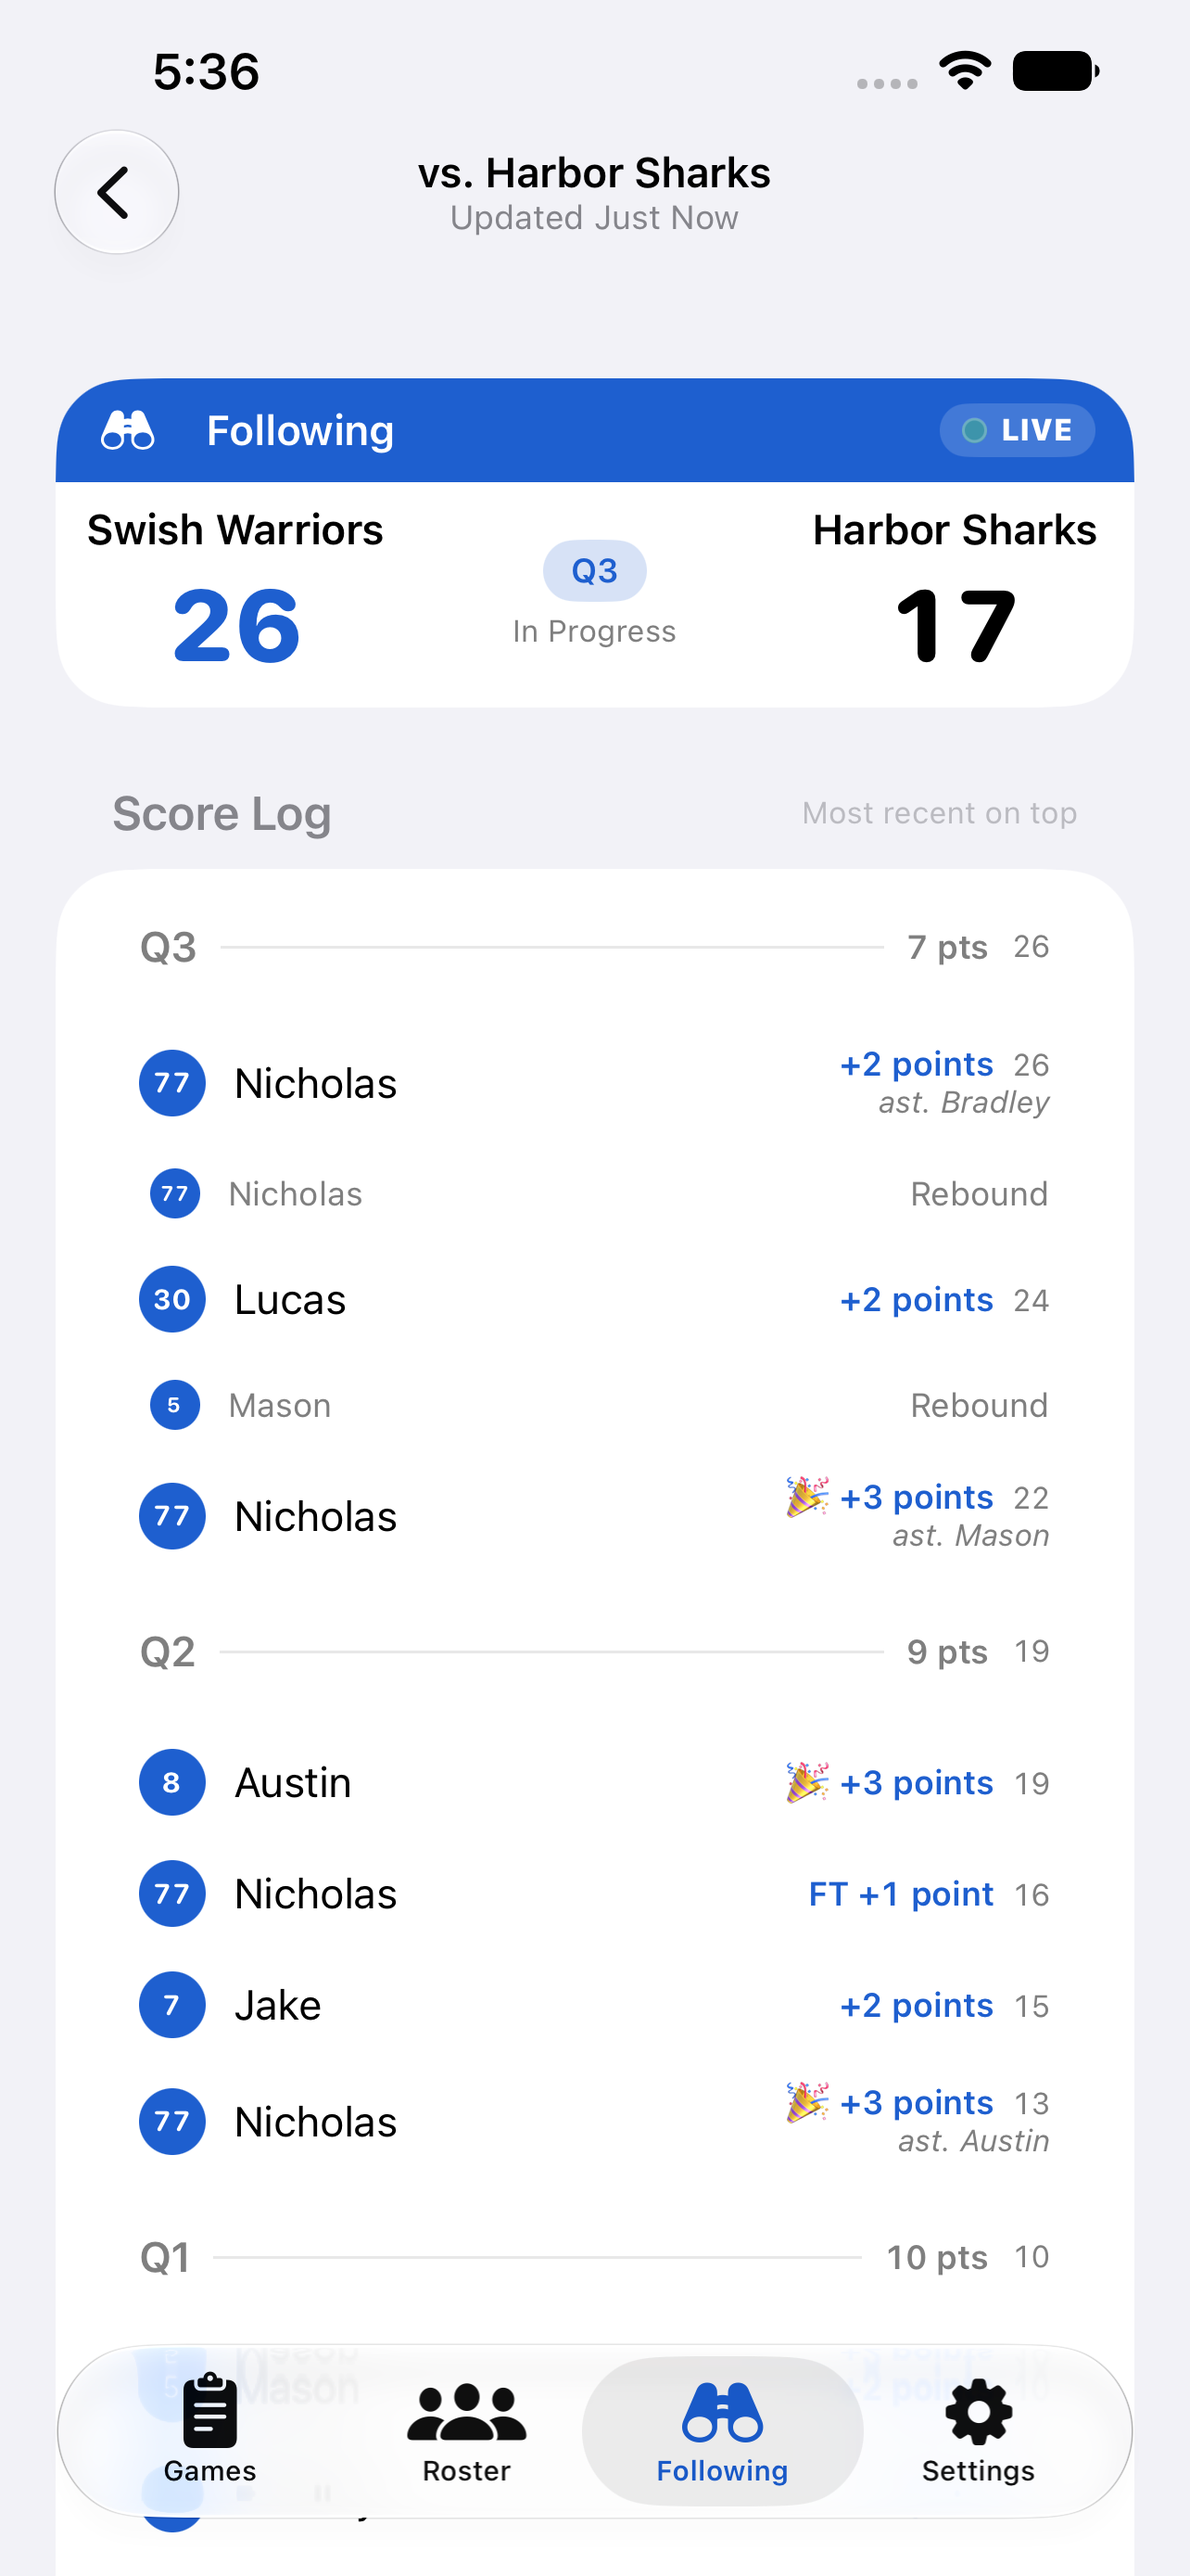
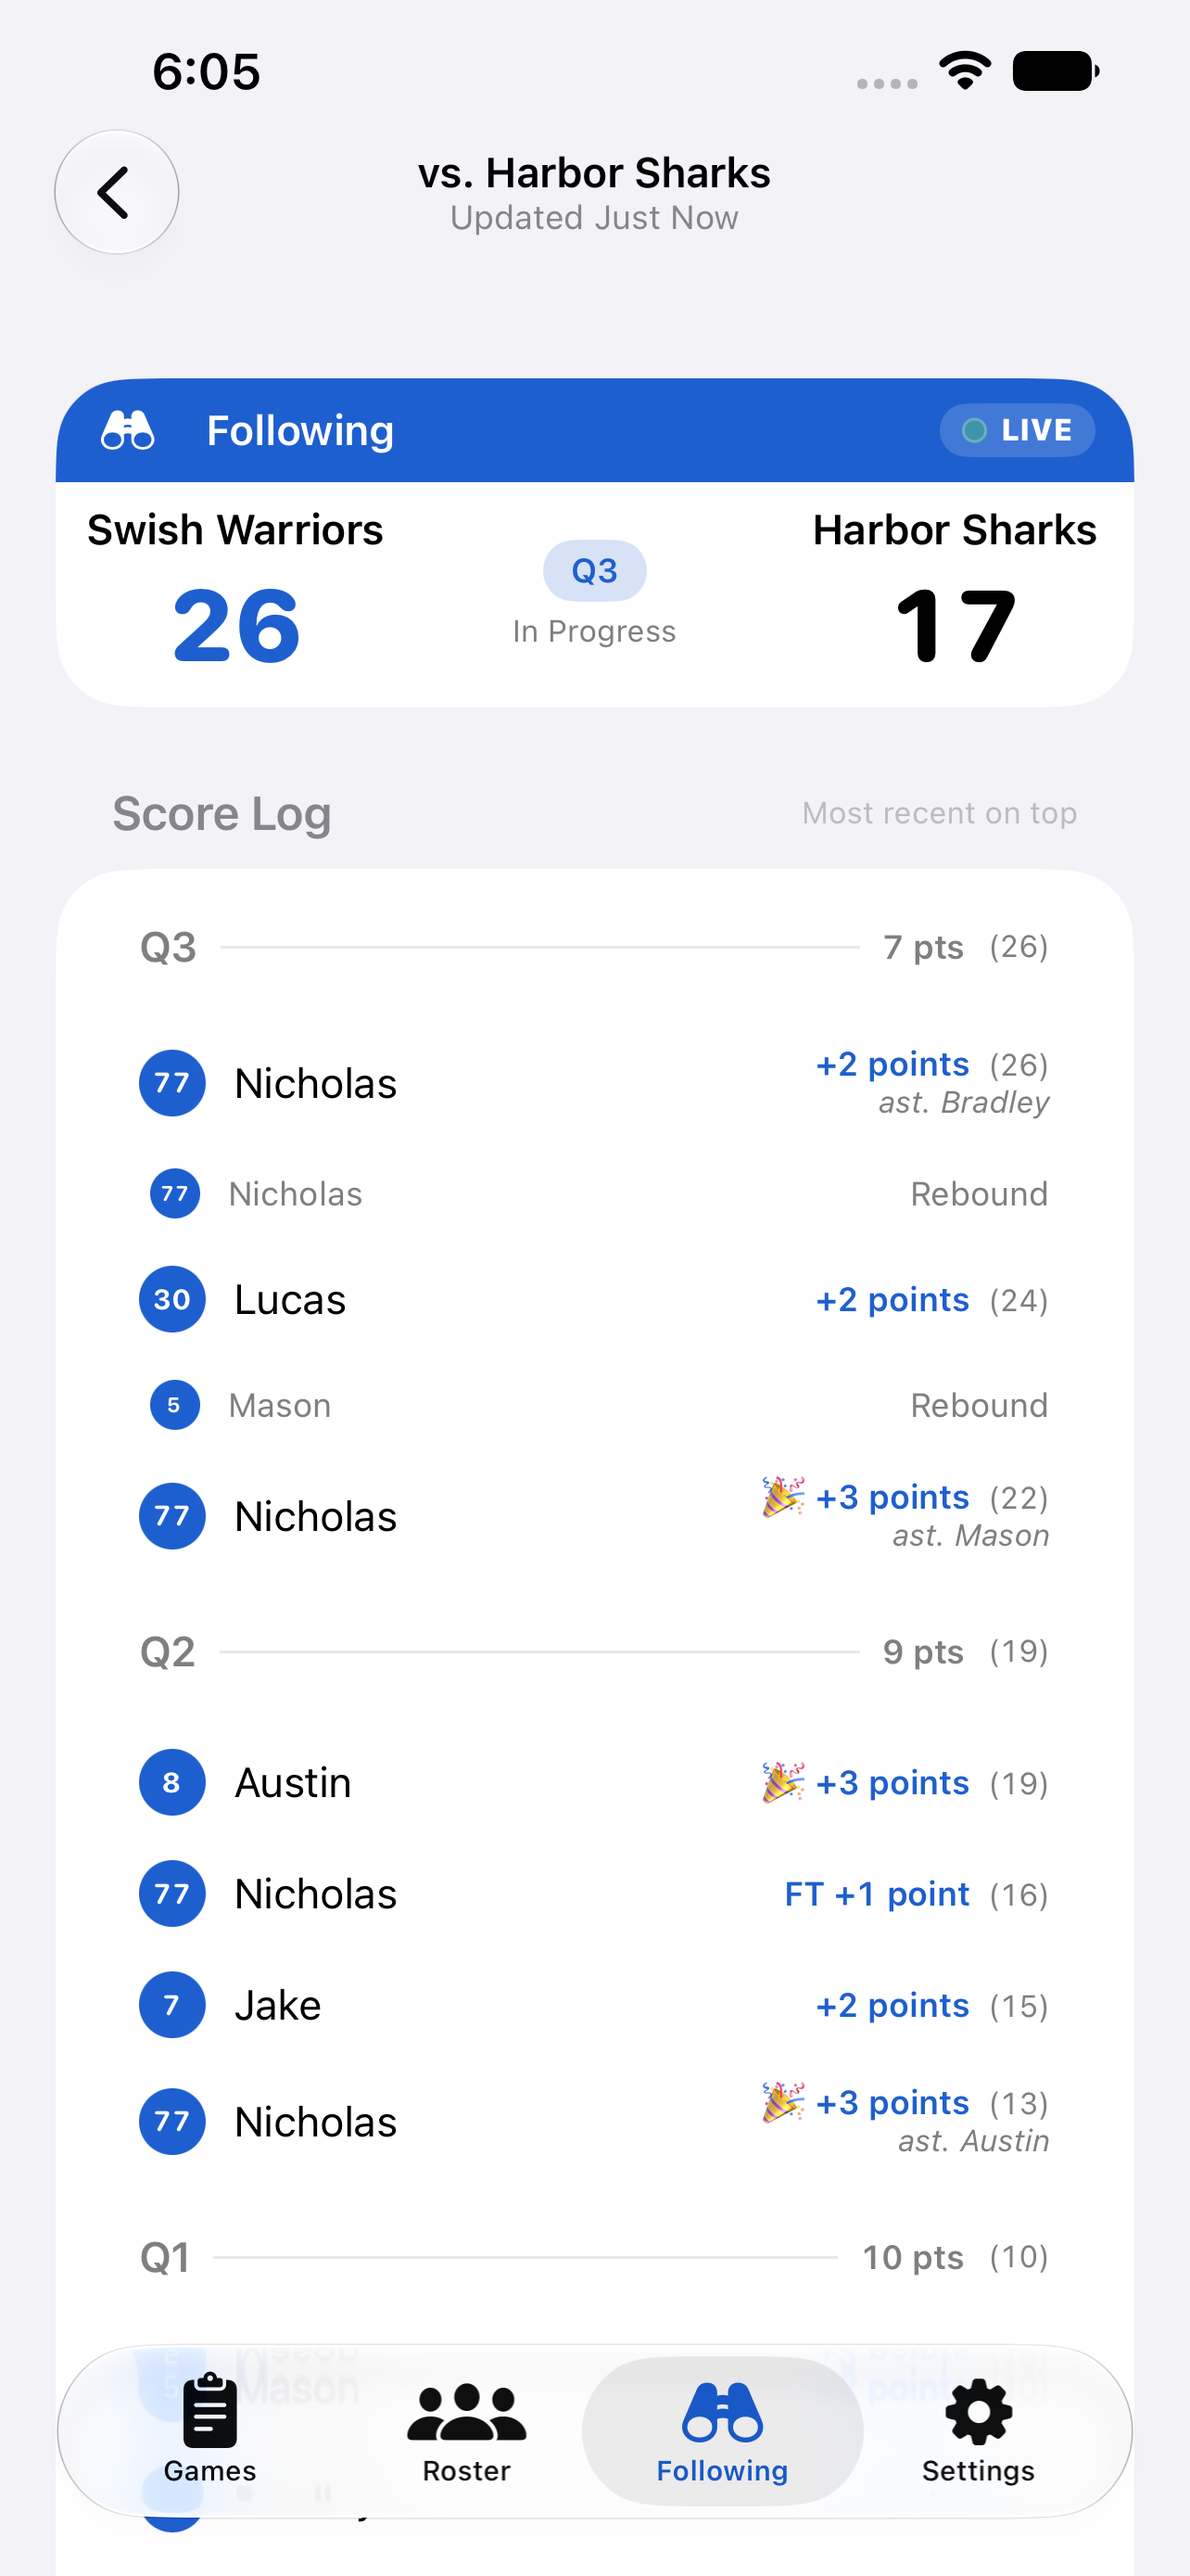
Bracket every running total in the Score Log
Two bare numbers side by side — "4 pts 11" — read as one quantity. The
parentheses say the second is a different kind of number: not what was just
scored, but where the score stands.

Applied to the rows as well as the period header, so it reads as one
convention rather than a quirk of the header. That also restores the exact
column the bare-number version had and the header-only version lost: both
shapes now match, so the totals line up straight down the log.

Claude-Session: https://claude.ai/code/session_01XKw3Fyr61m8RtwfRppQofX

diff --git a/CourtsideHoopStats/Views/EventLogView.swift b/CourtsideHoopStats/Views/EventLogView.swift
@@ -90,10 +90,10 @@ struct EventLogView: View {
                 .foregroundStyle(.secondary)
                 .monospacedDigit()
                 .fixedSize()
-            // The running total, in the same column the rows put theirs in, so
-            // it reads straight down the log instead of being a differently
-            // shaped number on a different line (#183).
-            Text("\(cumulativePoints(through: period))")
+            // The running total, bracketed — and the rows bracket theirs the
+            // same way, so the parentheses read as one consistent column
+            // rather than a quirk of the header (#183).
+            Text("(\(cumulativePoints(through: period)))")
                 .font(.caption2)
                 .foregroundStyle(.secondary)
                 .monospacedDigit()
@@ -268,7 +268,11 @@ struct EventLogRow: View {
                         // label, since the badge is there for a sighted glance.
                         .accessibilityLabel(event.type.scoreLogLabel)
                     if event.type.points > 0 {
-                        Text("\(runningTotal)")
+                        // Bracketed to match the period header: two bare
+                        // numbers side by side read as one quantity, and the
+                        // running total is a different kind of number from the
+                        // points just scored (#183).
+                        Text("(\(runningTotal))")
                             .font(.caption2)
                             .foregroundStyle(.secondary)
                     }
